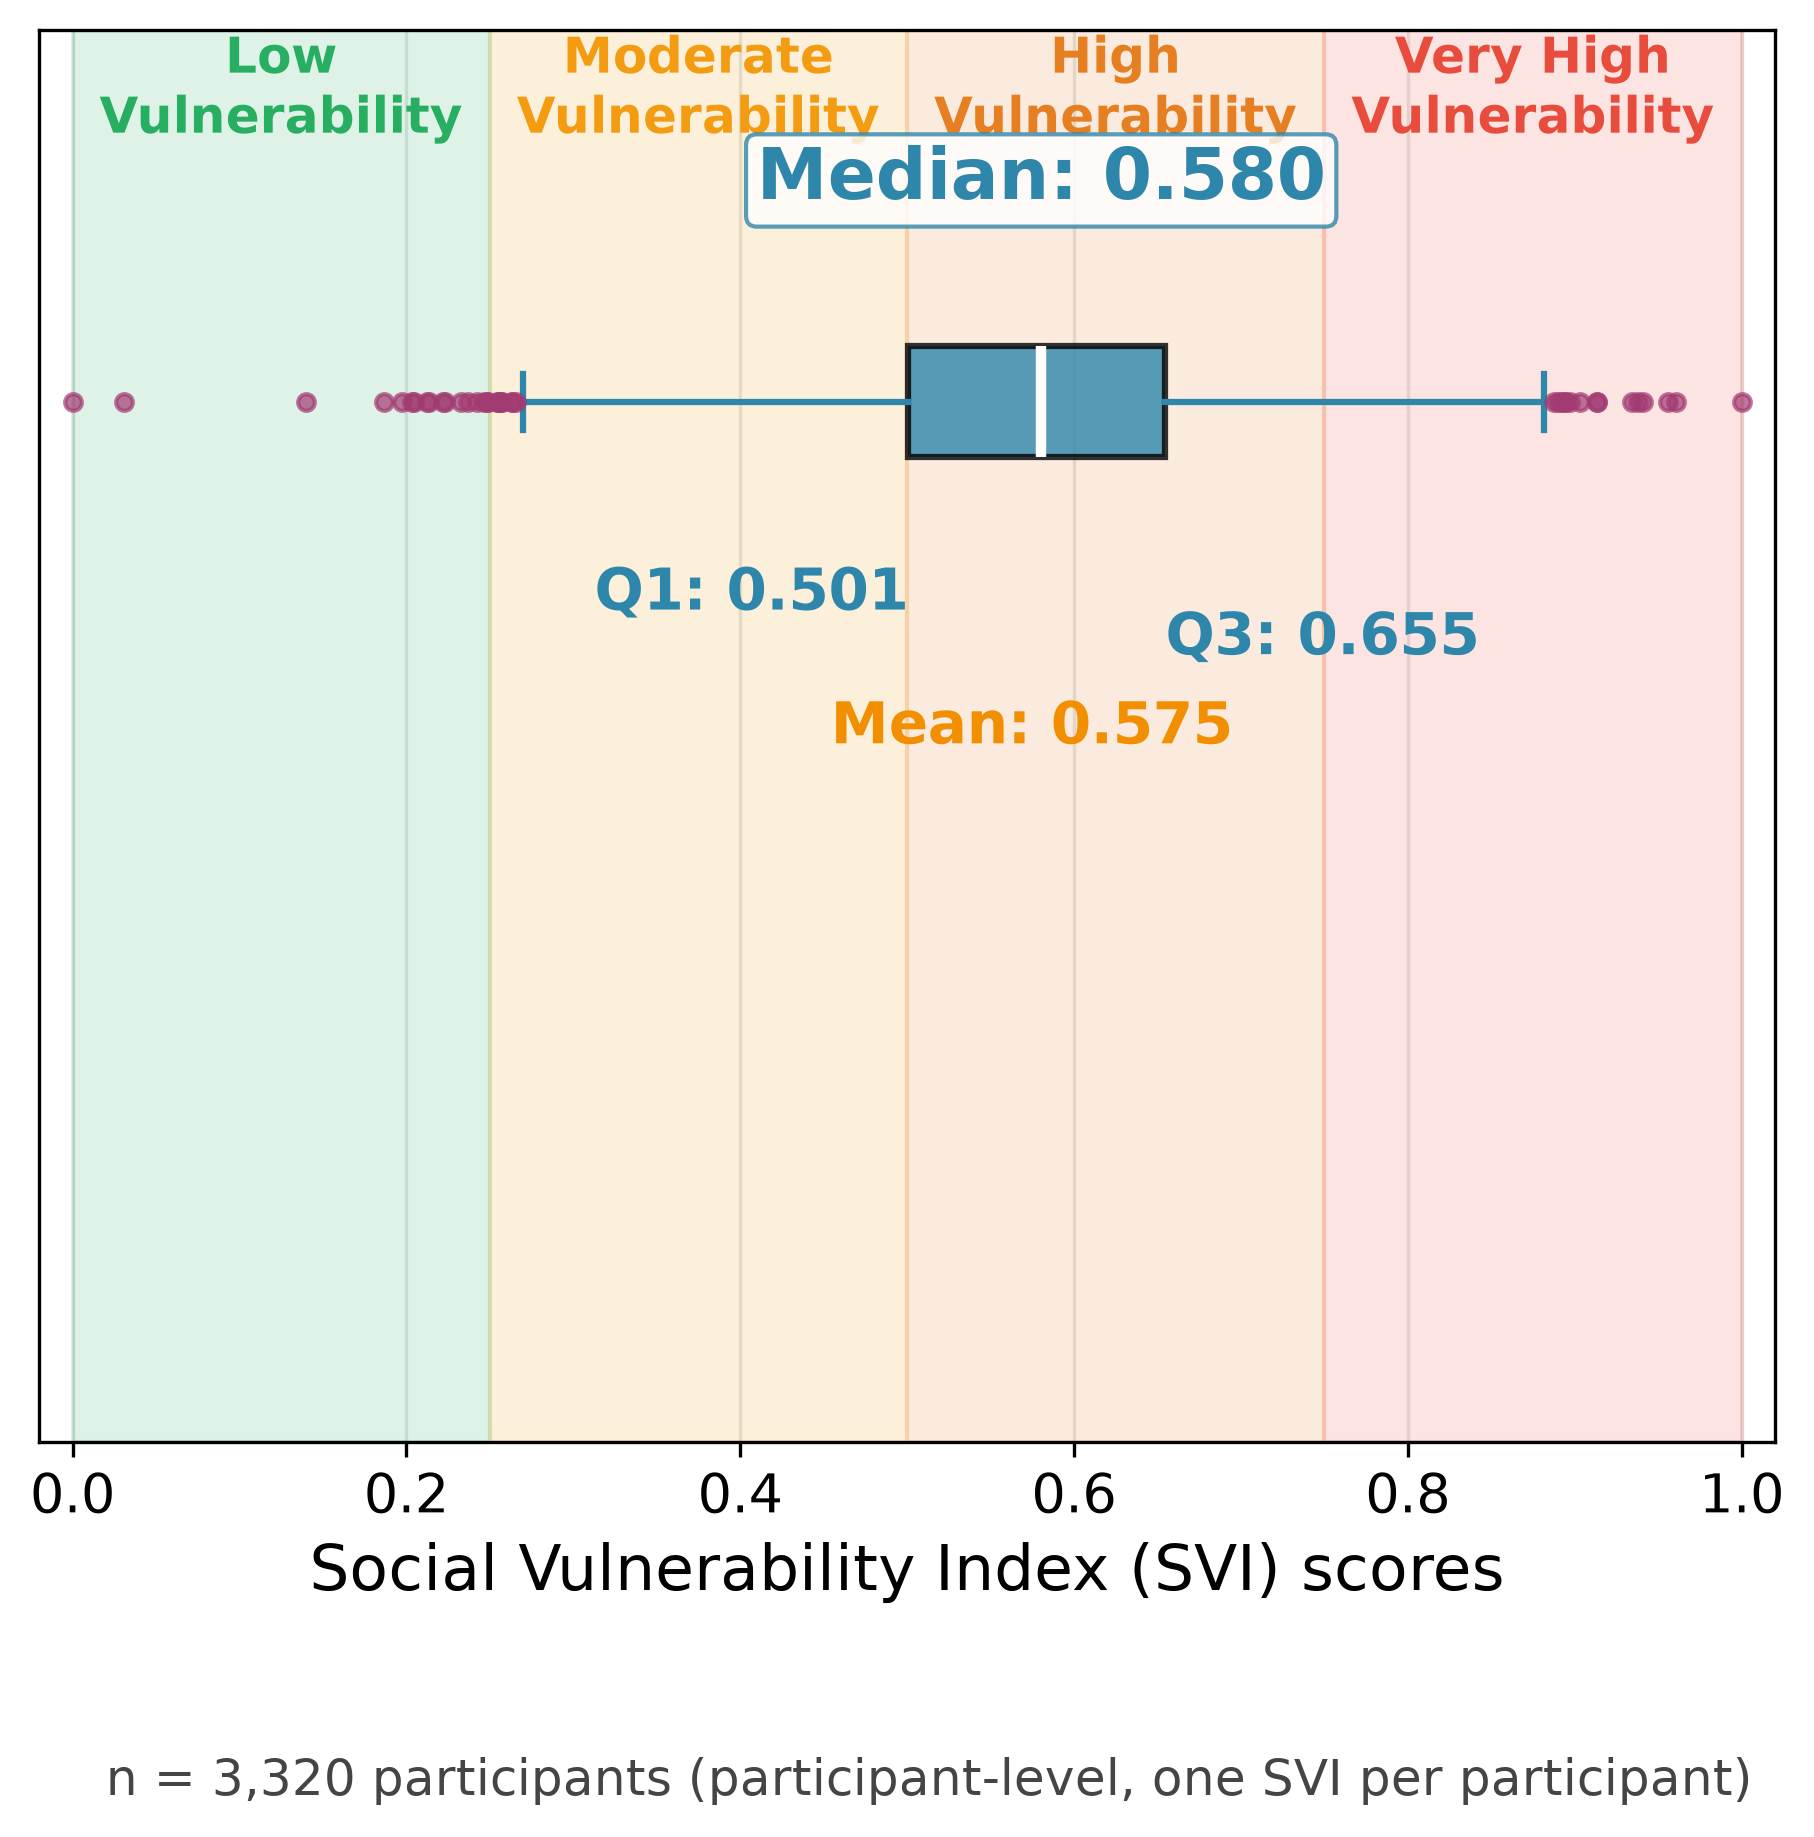
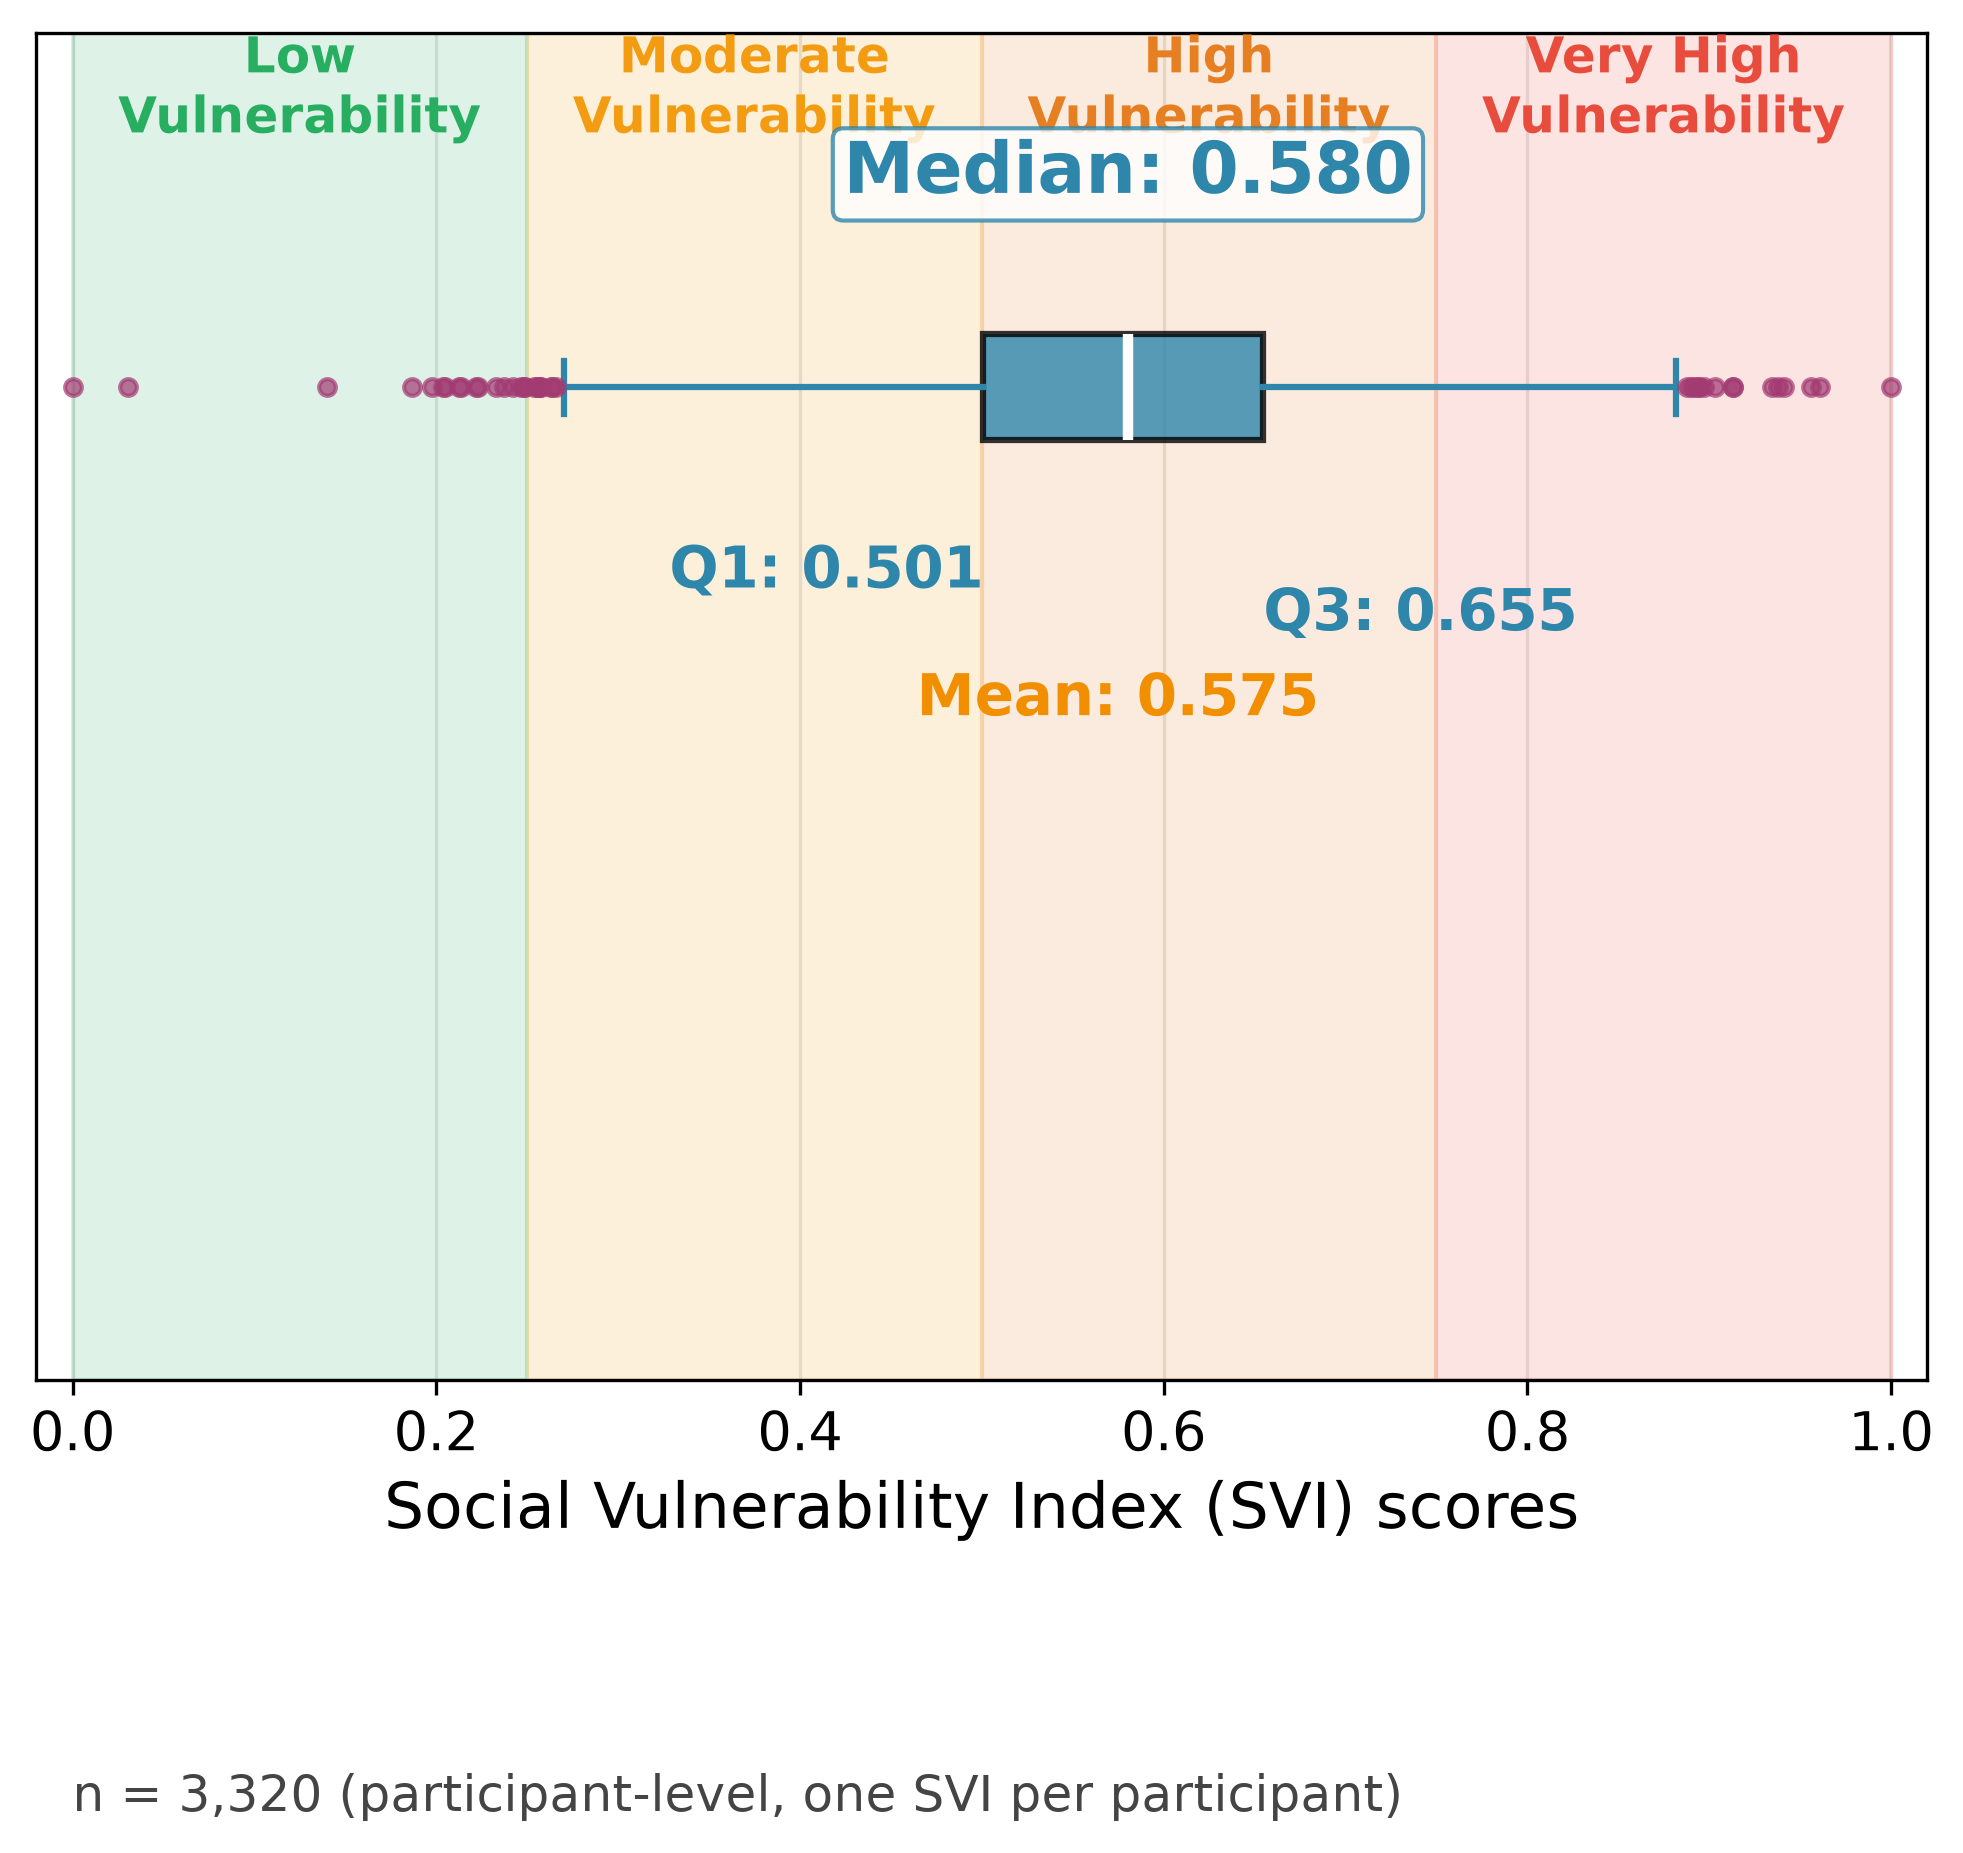
fix: Fig12 footer clipping (regen_svi_boxplot footer layout)

Changed region(s): [[0.0, 0.0, 0.9879, 0.8688], [0.0309, 0.9619, 0.957, 0.9929]]

diff --git a/scripts/regen_svi_boxplot.py b/scripts/regen_svi_boxplot.py
@@ -44,8 +44,8 @@ ax.text(q3, 0.72, f"Q3: {q3:.3f}", ha="left", va="top", fontsize=14,
         color=PRIMARY, fontweight="semibold")
 ax.text(mean_val, 0.6, f"Mean: {mean_val:.3f}", ha="center", va="top", fontsize=14,
         color=ACCENT, fontweight="semibold")
-ax.text(0.02, -0.25, f"n = {n:,} participants (participant-level, one SVI per participant)",
-        transform=ax.get_xaxis_transform(), fontsize=12, color="#444444")
+ax.text(0.0, -0.32, f"n = {n:,} (participant-level, one SVI per participant)",
+        transform=ax.get_xaxis_transform(), fontsize=12, color="#444444", clip_on=False)
 
 ax.set_yticks([])
 ax.set_xlim(-0.02, 1.02)
@@ -54,6 +54,7 @@ ax.set_xlabel("Social Vulnerability Index (SVI) scores", fontsize=15)
 for lbl in ax.get_xticklabels(): lbl.set_fontsize(13)
 ax.grid(axis="x", color="#E5E5E5", linewidth=0.8)
 ax.set_axisbelow(True)
+fig.subplots_adjust(bottom=0.18)
 fig.tight_layout()
 fig.savefig("outputs/figures/svi_analysis/svi_boxplot_analysis_no_title.png", dpi=300,
             bbox_inches="tight")
